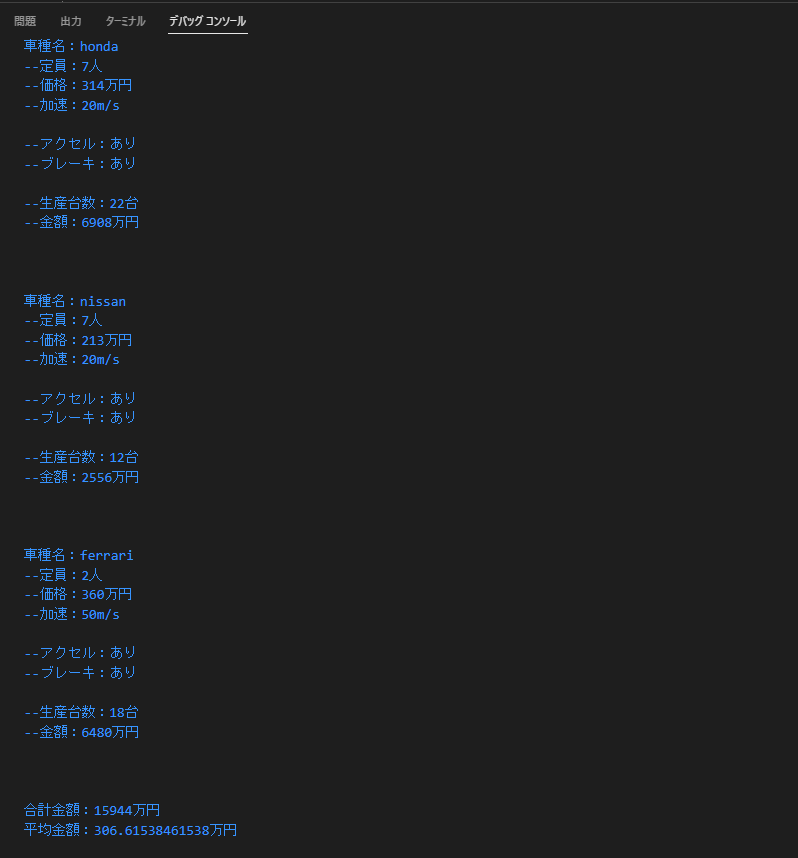
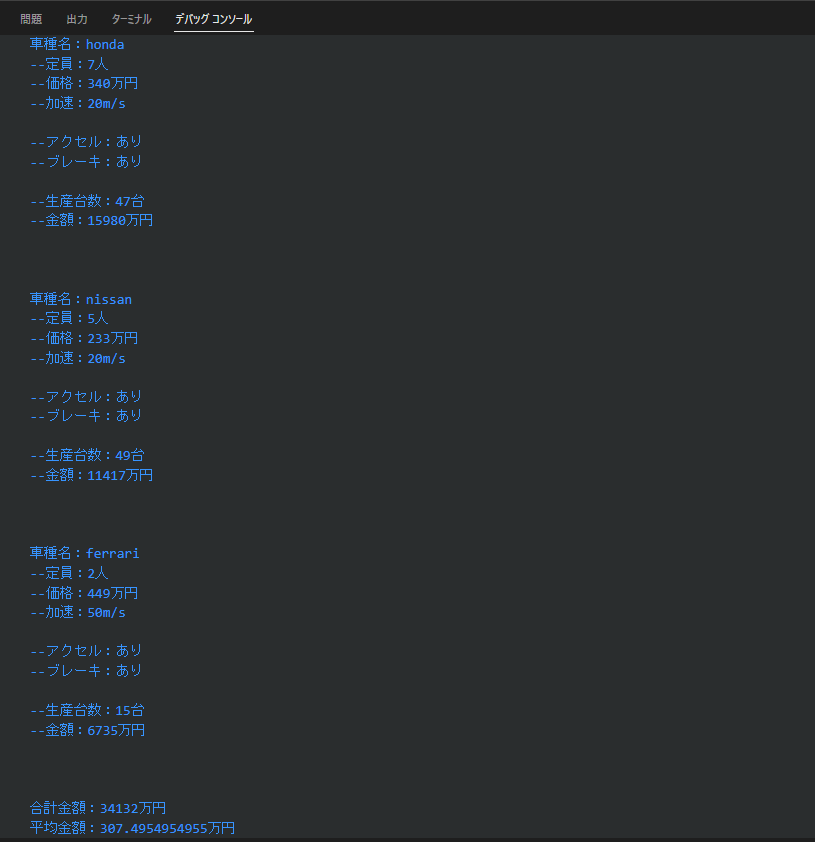
fix：png,Q3,

diff --git a/question05.php b/question05.php
@@ -75,10 +75,10 @@ $distance = 1000;  //単位：メートル
 //
 //配列：車名 => 残りの距離
 $arrCar = [
-    ["Honda",5000],
-    ["Nissan",5000],
-    ["Ferrari",5000],
-    ["Toyota",0],
+    ["Honda",1000],
+    ["Nissan",1000],
+    ["Ferrari",1000],
+    ["Toyota",1000],
 ];
 //
 //配列：順位

diff --git a/question03.php b/question03.php
@@ -47,7 +47,7 @@ class Car {
 //
 $CarModel = [
     ['honda', 7, rand(251, 350), 20],  //Honda　普通
-    ['nissan', 7, rand(100, 250), 20],  //Nissan　安い
+    ['nissan', 5, rand(100, 250), 20],  //Nissan　安い
     ['ferrari', 2, rand(351, 500), 50]  //Ferrari　高い
 ];
 //
